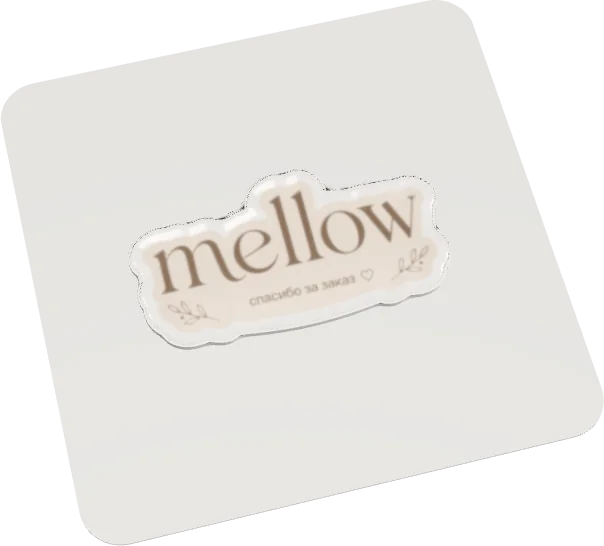
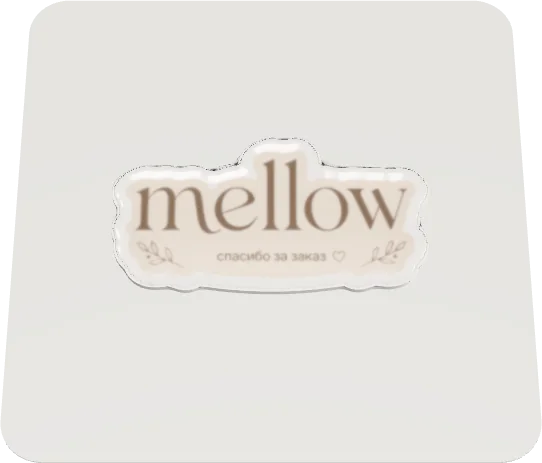
Стикеры: блок «Виды» — фронтальный ракурс с наклоном, приближение в кадре
Постеры перерендерены без бокового поворота, наклон 26° (верх уходит от зрителя,
как в герое). В карточке плитка приближена и обрезается кадром карточки —
в самом рендере запас сохранён.

diff --git a/stickers-landing/stickers-v2.html b/stickers-landing/stickers-v2.html
@@ -215,7 +215,8 @@
      (плитка на них читалась как серый квадрат в рамке, а чёрное поле спорило с белой карточкой) */
   .fcard__art{position:relative;margin-top:auto;border-radius:var(--radius-md);overflow:hidden;
     aspect-ratio:4/3}
-  .fcard__art img{width:100%;height:100%;object-fit:contain;display:block}
+  /* cover + приближение: плитка намеренно уходит под края кадра карточки */
+  .fcard__art img{width:100%;height:100%;object-fit:cover;display:block;transform:scale(1.28)}
   /* первая карточка тёмная — акцент блока (по ДС тёмная поверхность одна на страницу) */
   .fcard--glow{background:#141212;border-color:var(--border-on-dark-2)}
   .fcard--glow h3{color:#fff}
@@ -308,35 +309,35 @@
         <h3>Светится в темноте</h3>
         <p>Неон под смолой: виден без света. Для гейминга, техники и ночного мерча.</p>
         <div class="fcard__art">
-          <img src="posters/form-glow.webp" width="604" height="546" alt="Круглый светящийся стикер с надписью «работает не трогай»" loading="lazy" decoding="async">
+          <img src="posters/form-glow.webp" width="542" height="463" alt="Круглый светящийся стикер с надписью «работает не трогай»" loading="lazy" decoding="async">
         </div>
       </article>
       <article class="fcard fcard--pill">
         <h3>Название целиком</h3>
         <p>Вытянутая форма под логотип со слоганом — ложится на бутылку и корпус.</p>
         <div class="fcard__art">
-          <img src="posters/form-pill.webp" width="604" height="546" alt="Стикер-пилюля с логотипом SALT" loading="lazy" decoding="async">
+          <img src="posters/form-pill.webp" width="542" height="463" alt="Стикер-пилюля с логотипом SALT" loading="lazy" decoding="async">
         </div>
       </article>
       <article class="fcard fcard--diecut">
         <h3>Высечка по рисунку</h3>
         <p>Режем точно по силуэту: форма повторяет надпись или иллюстрацию.</p>
         <div class="fcard__art">
-          <img src="posters/form-diecut.webp" width="604" height="546" alt="Фигурный стикер с надписью mellow, вырезанный по контуру" loading="lazy" decoding="async">
+          <img src="posters/form-diecut.webp" width="542" height="463" alt="Фигурный стикер с надписью mellow, вырезанный по контуру" loading="lazy" decoding="async">
         </div>
       </article>
       <article class="fcard fcard--rect">
         <h3>Сцена и детали</h3>
         <p>Со скруглением — место для полной иллюстрации, подписи и мелочей.</p>
         <div class="fcard__art">
-          <img src="posters/form-rect.webp" width="604" height="546" alt="Прямоугольный стикер с иллюстрацией Санкт-Петербурга" loading="lazy" decoding="async">
+          <img src="posters/form-rect.webp" width="542" height="463" alt="Прямоугольный стикер с иллюстрацией Санкт-Петербурга" loading="lazy" decoding="async">
         </div>
       </article>
       <article class="fcard fcard--round">
         <h3>Мерч для бизнеса</h3>
         <p>Логотип в круге: раздатка на мероприятиях, упаковка, подарки клиентам.</p>
         <div class="fcard__art">
-          <img src="posters/form-round.webp" width="604" height="546" alt="Круглый стикер с логотипом NORDA" loading="lazy" decoding="async">
+          <img src="posters/form-round.webp" width="542" height="463" alt="Круглый стикер с логотипом NORDA" loading="lazy" decoding="async">
         </div>
       </article>
     </div>
